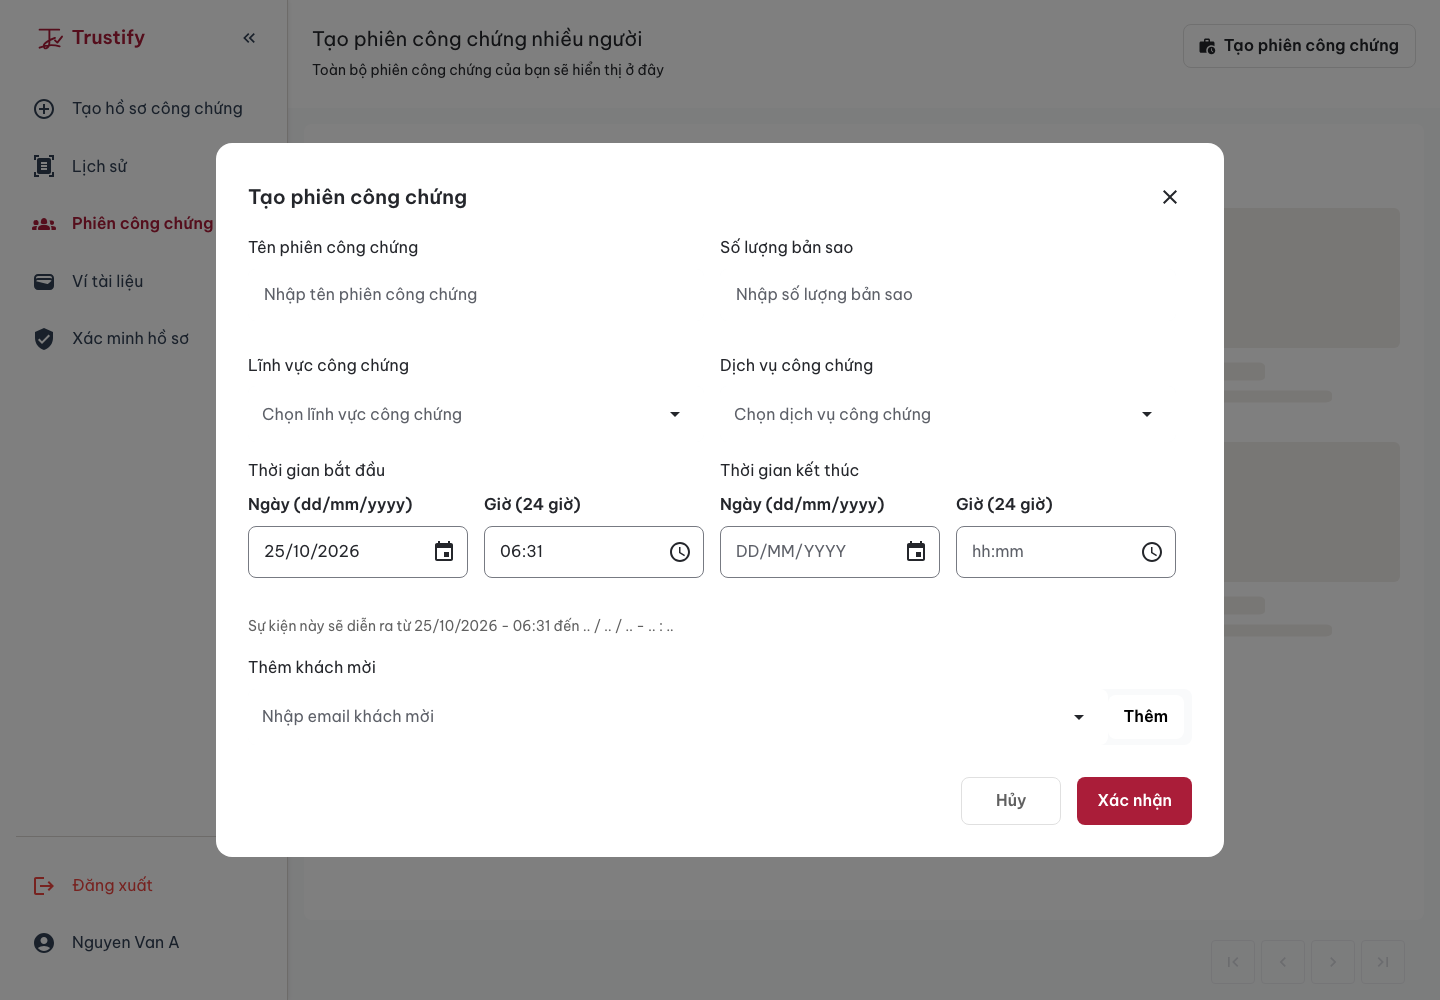
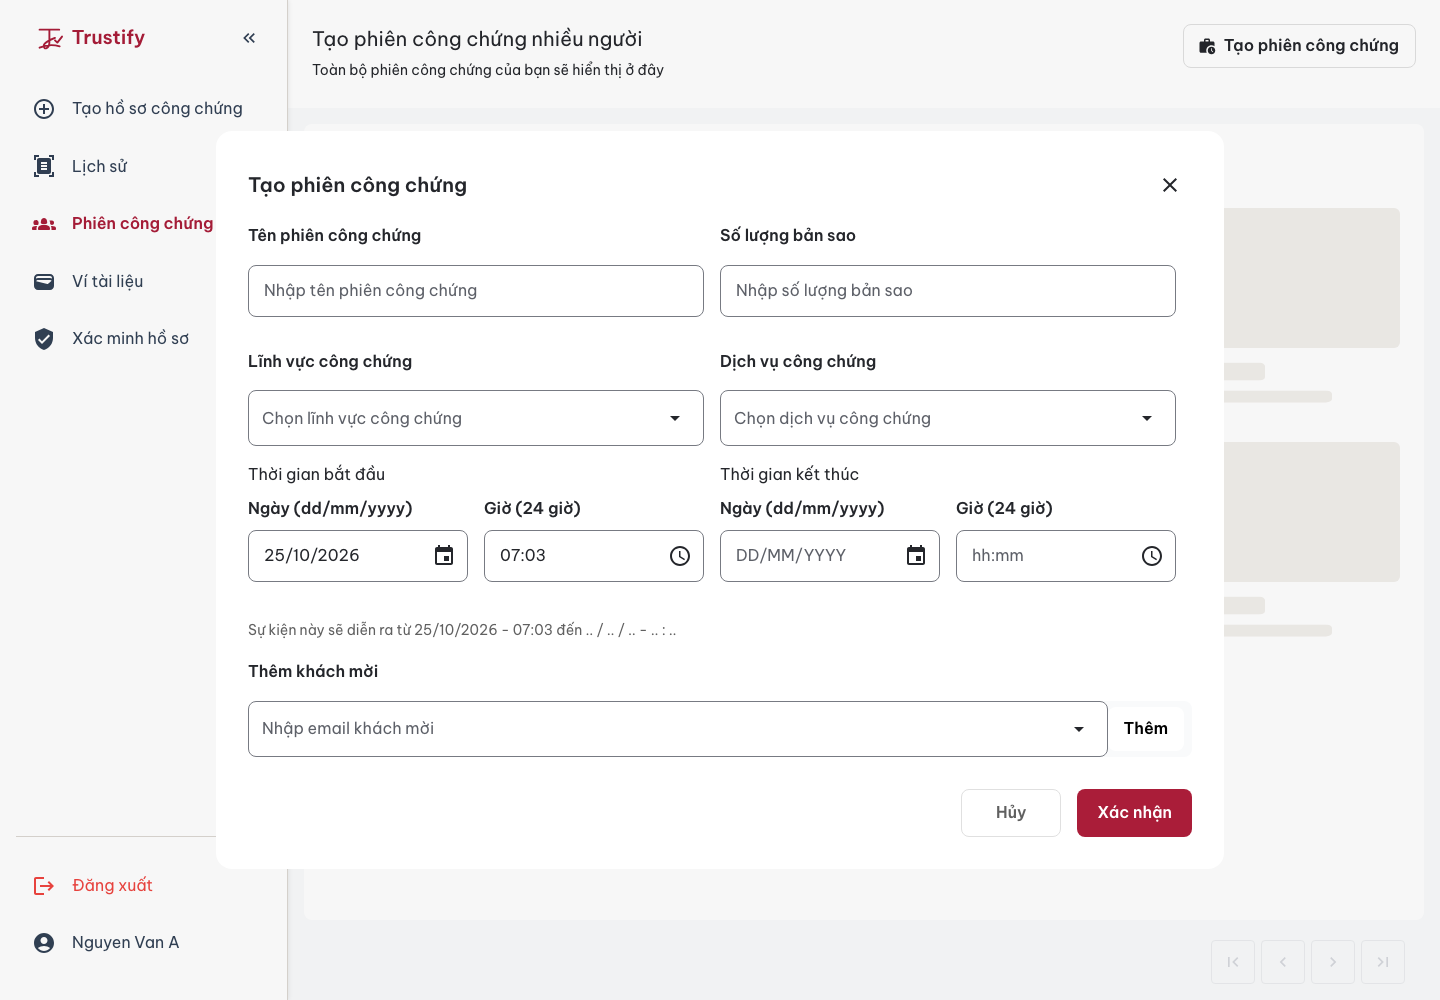
fix: restore session input borders and associated labels

diff --git a/src/pages/services/NotarySessionForm.js b/src/pages/services/NotarySessionForm.js
@@ -1,8 +1,9 @@
-import React, { useEffect, useState, useMemo } from 'react';
+import React, { useEffect, useState, useMemo, useId } from 'react';
 import { Box, Typography, TextField, IconButton, Button, Autocomplete, Modal, styled } from '@mui/material';
 import CloseIcon from '@mui/icons-material/Close';
 import { black, gray, white } from '../../config/theme/themePrimitives';
 import { LocalizationProvider } from '@mui/x-date-pickers';
+import FieldLabel from '../../components/shared/FieldLabel';
 import DateTimePickerSection from '../../components/shared/DateTimeFields';
 import { AdapterDayjs } from '@mui/x-date-pickers/AdapterDayjs';
 import dayjs from 'dayjs';
@@ -22,8 +23,9 @@ const debounce = (func, wait) => {
   };
 };
 
-const CustomAutocomplete = ({ options, value, onChange, placeholder, loading, fetchOptions, isSubmitting }) => (
+const CustomAutocomplete = ({ id, options, value, onChange, placeholder, loading, fetchOptions, isSubmitting }) => (
   <Autocomplete
+    id={id}
     loading={loading}
     options={options}
     getOptionLabel={(option) => option.name}
@@ -33,7 +35,6 @@ const CustomAutocomplete = ({ options, value, onChange, placeholder, loading, fe
         {...params}
         inputProps={{ ...params.inputProps, readOnly: true }}
         sx={{
-          '& fieldset': { border: 'none' },
           mt: 1,
           backgroundColor: gray[50],
           borderRadius: 1,
@@ -67,6 +68,7 @@ const CustomAutocomplete = ({ options, value, onChange, placeholder, loading, fe
 );
 
 const GuestSection = ({
+  id,
   value,
   options,
   handleInputChange,
@@ -77,7 +79,7 @@ const GuestSection = ({
   isSubmitting,
 }) => (
   <Box sx={{ mb: 2 }}>
-    <Typography variant="body2">Thêm khách mời</Typography>
+    <FieldLabel htmlFor={id} label="Thêm khách mời" disabled={isSubmitting}>
     <Box
       sx={{
         display: 'flex',
@@ -89,6 +91,7 @@ const GuestSection = ({
     >
       {/* Guest Autocomplete */}
       <Autocomplete
+        id={id}
         value={value}
         loading={loading}
         options={options}
@@ -102,7 +105,6 @@ const GuestSection = ({
             placeholder="Nhập email khách mời"
             sx={{
               flexGrow: 1,
-              '& fieldset': { border: 'none' },
               '& .MuiInputBase-input': { fontSize: '1rem' },
             }}
             onKeyDown={(event) => event.key === 'Enter' && handleAddGuest()}
@@ -135,6 +137,8 @@ const GuestSection = ({
       </Button>
     </Box>
 
+    </FieldLabel>
+
     {/* Added Guests */}
     <Box sx={{ display: 'flex', flexWrap: 'wrap', mt: 2 }}>
       {users.map((guest, index) => (
@@ -145,7 +149,6 @@ const GuestSection = ({
 );
 
 const CustomTextField = styled(TextField)(({ theme }) => ({
-  '& fieldset': { border: 'none' },
   marginTop: theme.spacing(1),
   backgroundColor: gray[50],
   borderRadius: theme.shape.borderRadius,
@@ -155,6 +158,7 @@ const CustomTextField = styled(TextField)(({ theme }) => ({
 }));
 
 const NotarySessionForm = ({ open, setOpen, handleSuccess }) => {
+  const fieldId = useId();
   const [startDate, setStartDate] = useState(dayjs());
   const [startTime, setStartTime] = useState(dayjs());
 
@@ -368,31 +372,35 @@ const NotarySessionForm = ({ open, setOpen, handleSuccess }) => {
           {/* Notary Session Name */}
           <Box sx={{ display: 'flex', flexDirection: { xs: 'column', sm: 'row' }, flexWrap: 'wrap', mb: 2 }}>
             <Box sx={{ flex: '1 1 30%', mr: { xs: 0, sm: 2 }, mb: 2 }}>
-              <Typography variant="body2">Tên phiên công chứng</Typography>
+              <FieldLabel htmlFor={`${fieldId}-name`} label="Tên phiên công chứng" disabled={isSubmitting}>
               <CustomTextField
+                id={`${fieldId}-name`}
                 placeholder="Nhập tên phiên công chứng"
-                inputProps={{ 'aria-label': 'Tên phiên công chứng' }}
                 fullWidth
                 onChange={handleSessionNameChange}
                 disabled={isSubmitting}
               />
+              </FieldLabel>
             </Box>
             <Box sx={{ flex: '1 1 30%', mr: { xs: 0, sm: 2 }, mb: 2 }}>
-              <Typography variant="body2">Số lượng bản sao</Typography>
+              <FieldLabel htmlFor={`${fieldId}-amount`} label="Số lượng bản sao" disabled={isSubmitting}>
               <CustomTextField
+                id={`${fieldId}-amount`}
                 placeholder="Nhập số lượng bản sao"
                 fullWidth
                 onChange={handleAmountChange}
                 disabled={isSubmitting}
               />
+              </FieldLabel>
             </Box>
           </Box>
 
           {/* Notary Service and Field */}
           <Box sx={{ display: 'flex', flexDirection: { xs: 'column', sm: 'row' }, flexWrap: 'wrap', mb: 2 }}>
             <Box sx={{ flex: '1 1 30%', mr: { xs: 0, sm: 2 }, mb: { xs: 2, sm: 0 } }}>
-              <Typography variant="body2">Lĩnh vực công chứng</Typography>
+              <FieldLabel htmlFor={`${fieldId}-field`} label="Lĩnh vực công chứng" disabled={isSubmitting}>
               <CustomAutocomplete
+                id={`${fieldId}-field`}
                 options={notarizationFields}
                 value={notaryField}
                 onChange={(e, value) => setNotaryField(value)}
@@ -401,10 +409,12 @@ const NotarySessionForm = ({ open, setOpen, handleSuccess }) => {
                 fetchOptions={fetchNotarizationField}
                 isSubmitting={isSubmitting}
               />
+              </FieldLabel>
             </Box>
             <Box sx={{ flex: '1 1 30%', mr: { xs: 0, sm: 2 }, mb: { xs: 2, sm: 0 } }}>
-              <Typography variant="body2">Dịch vụ công chứng</Typography>
+              <FieldLabel htmlFor={`${fieldId}-service`} label="Dịch vụ công chứng" disabled={isSubmitting}>
               <CustomAutocomplete
+                id={`${fieldId}-service`}
                 options={notarizationServices}
                 value={notaryService}
                 onChange={(e, value) => setNotaryService(value)}
@@ -413,6 +423,7 @@ const NotarySessionForm = ({ open, setOpen, handleSuccess }) => {
                 fetchOptions={fetchNotarizationService}
                 isSubmitting={isSubmitting}
               />
+              </FieldLabel>
             </Box>
           </Box>
 
@@ -450,6 +461,7 @@ const NotarySessionForm = ({ open, setOpen, handleSuccess }) => {
 
           {/* Guests */}
           <GuestSection
+            id={`${fieldId}-guests`}
             value={email}
             options={options}
             handleInputChange={handleInputChange}

diff --git a/src/pages/services/NotarySessionForm.test.js b/src/pages/services/NotarySessionForm.test.js
@@ -1,0 +1,25 @@
+import React from 'react';
+import { fireEvent, render, screen } from '@testing-library/react';
+import { ThemeProvider } from '@mui/material/styles';
+import createTrustifyTheme from '../../config/theme/createTrustifyTheme';
+import NotarySessionForm from './NotarySessionForm';
+import SessionService from '../../services/session.service';
+
+jest.mock('react-toastify/dist/ReactToastify.css', () => ({}));
+jest.mock('../../services/session.service', () => ({ createSession: jest.fn() }));
+
+test('session labels identify all editable controls and cancel never submits', () => {
+  const setOpen = jest.fn();
+  render(<ThemeProvider theme={createTrustifyTheme()}>
+    <NotarySessionForm open setOpen={setOpen} handleSuccess={jest.fn()} />
+  </ThemeProvider>);
+  for (const label of ['Tên phiên công chứng', 'Số lượng bản sao', 'Lĩnh vực công chứng', 'Dịch vụ công chứng', 'Thêm khách mời']) {
+    const input = screen.getByLabelText(label, { exact: true });
+    expect(input.tagName).toBe('INPUT');
+    expect(input).toHaveAttribute('id');
+  }
+  fireEvent.change(screen.getByLabelText('Tên phiên công chứng'), { target: { value: 'Phiên kiểm tra' } });
+  fireEvent.click(screen.getByRole('button', { name: 'Hủy', exact: true }));
+  expect(setOpen).toHaveBeenCalledWith(false);
+  expect(SessionService.createSession).not.toHaveBeenCalled();
+});

diff --git a/docs/design/PROGRESS.md b/docs/design/PROGRESS.md
@@ -31,3 +31,5 @@ All timestamps use Asia/Ho_Chi_Minh (UTC+07). Merge requires Claude’s `review:
 
 - PR #11 merged with review approval; main production Ready and homepage healthy. Design 03 acceptance: temporary Drawer at xs/sm and no horizontal overflow at 390px on every authenticated route. Admin empty pagination count follows in step 08.
 - 02b — Shared form controls, PR #12, 2026-10-25 07:02: build, CRA ESLint and 22 tests pass; 15 before/after pairs and all-role local read-only QA complete. Vercel primary Ready; authenticated User/Notary/Admin preview click-through complete, 10 preview screenshots. Ready for Claude review.
+
+- PR #12 review round 1: removed three border-suppressing rules and linked all five session fields through FieldLabel/useId. Local 1440/390 captures and computed border checks pass; build/ESLint/23 tests pass. Preview recheck pending. Profile save action footer follows in step 06.
